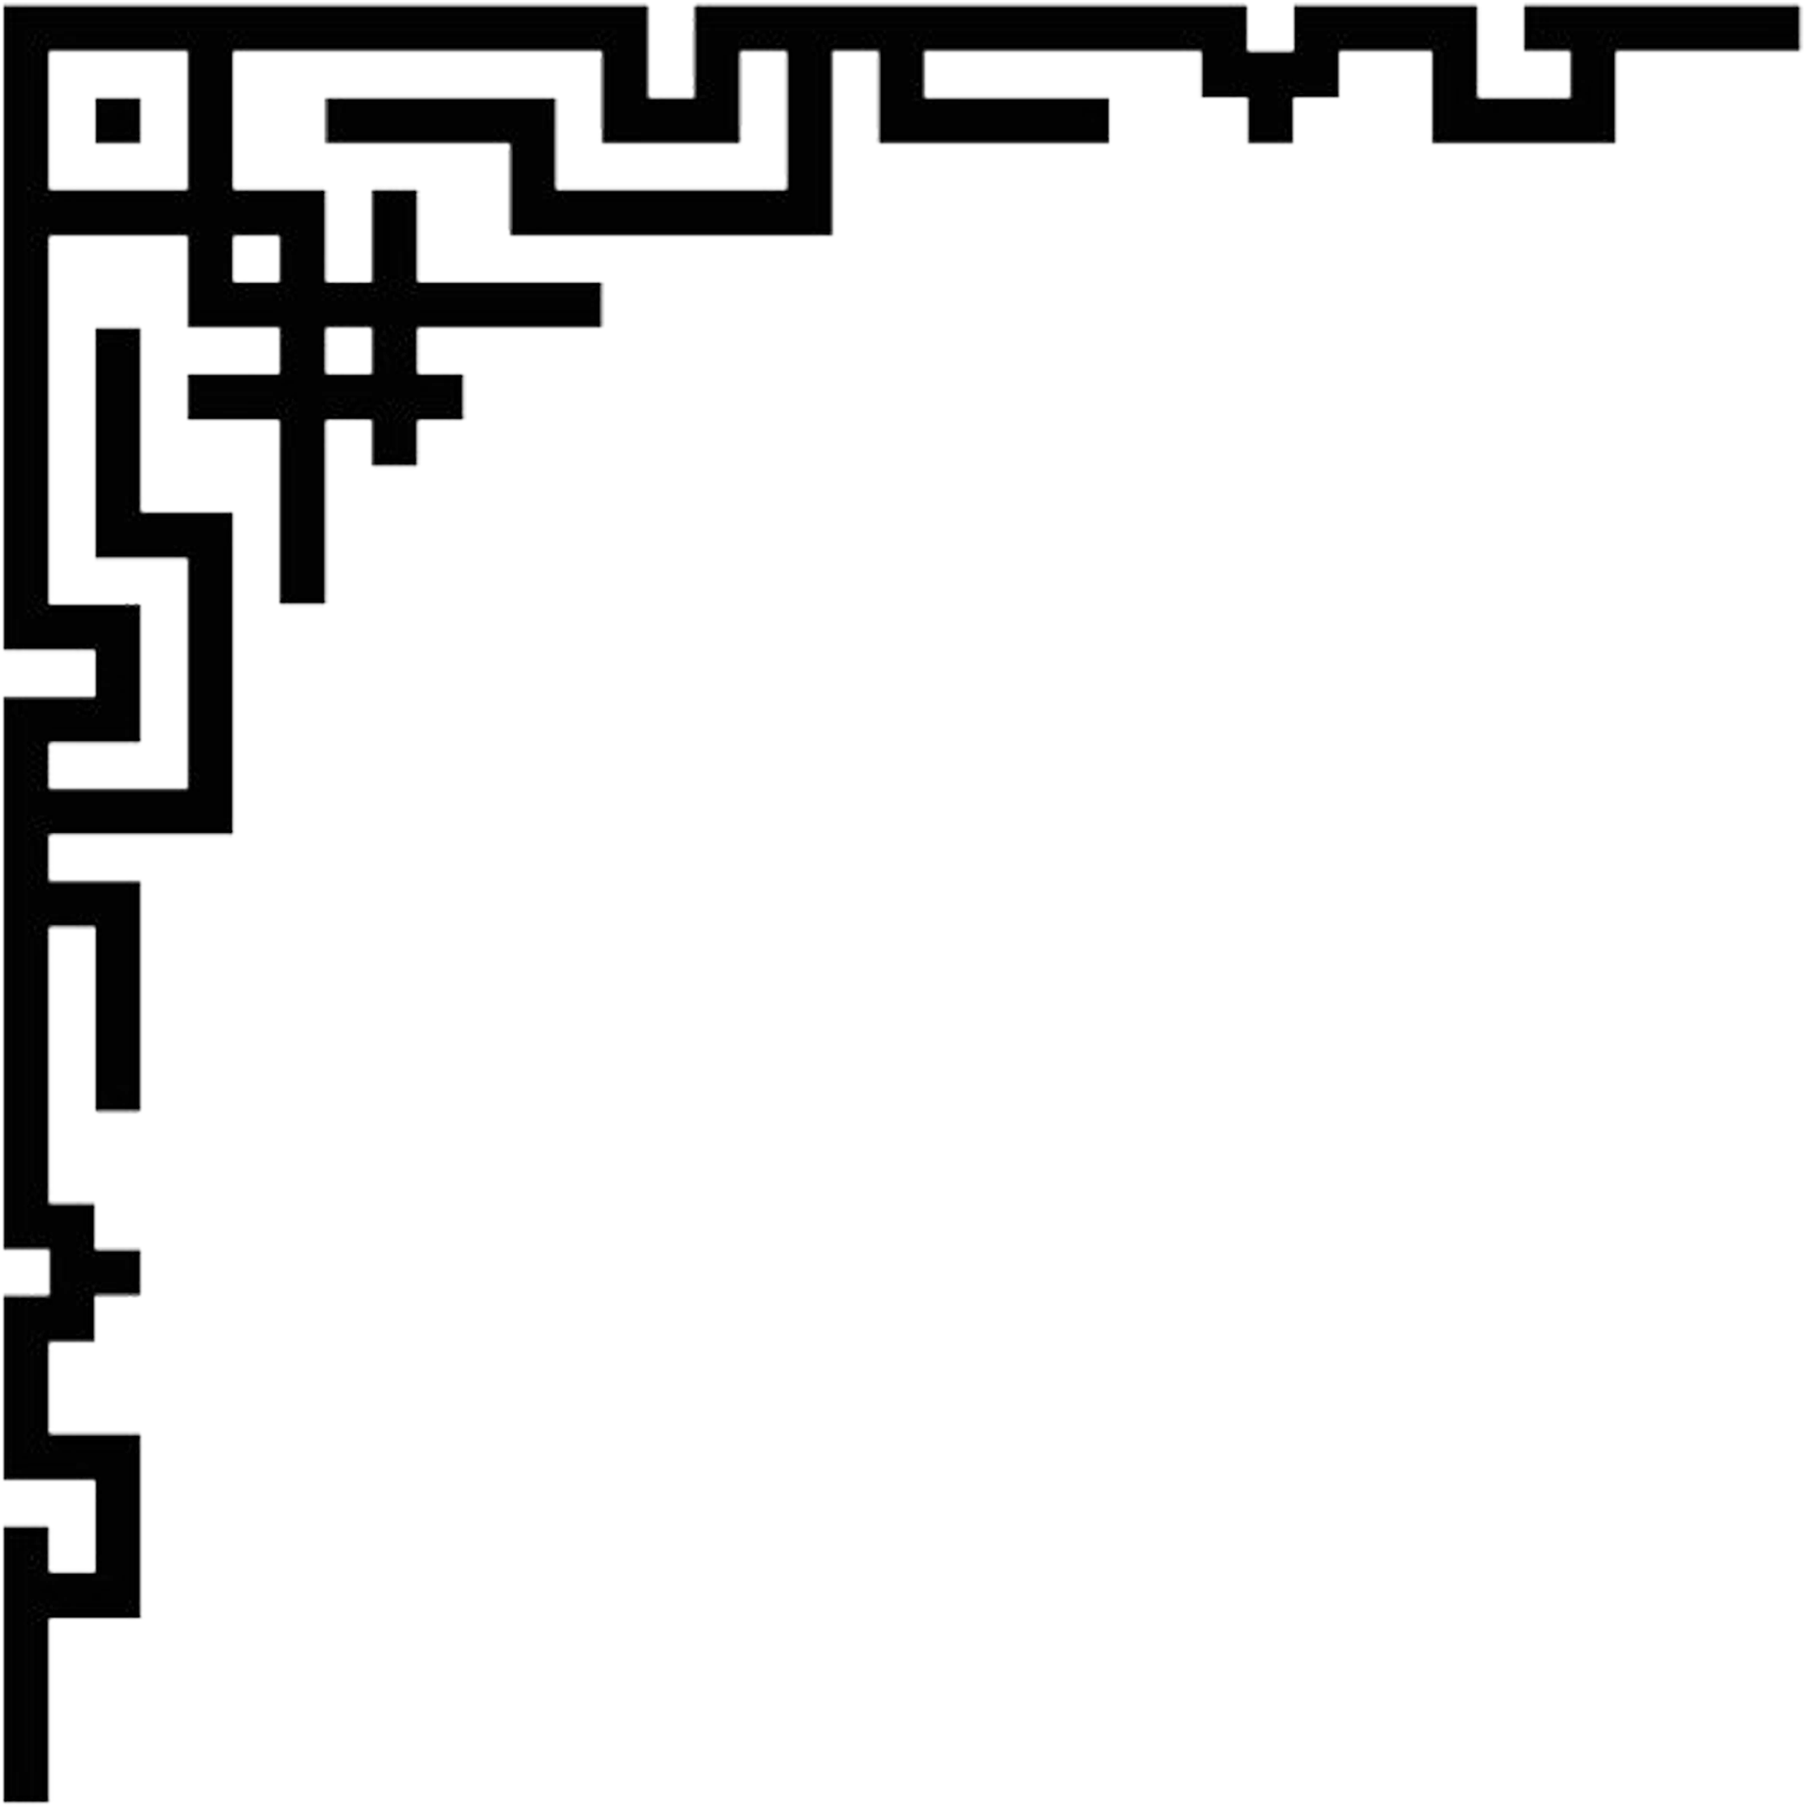
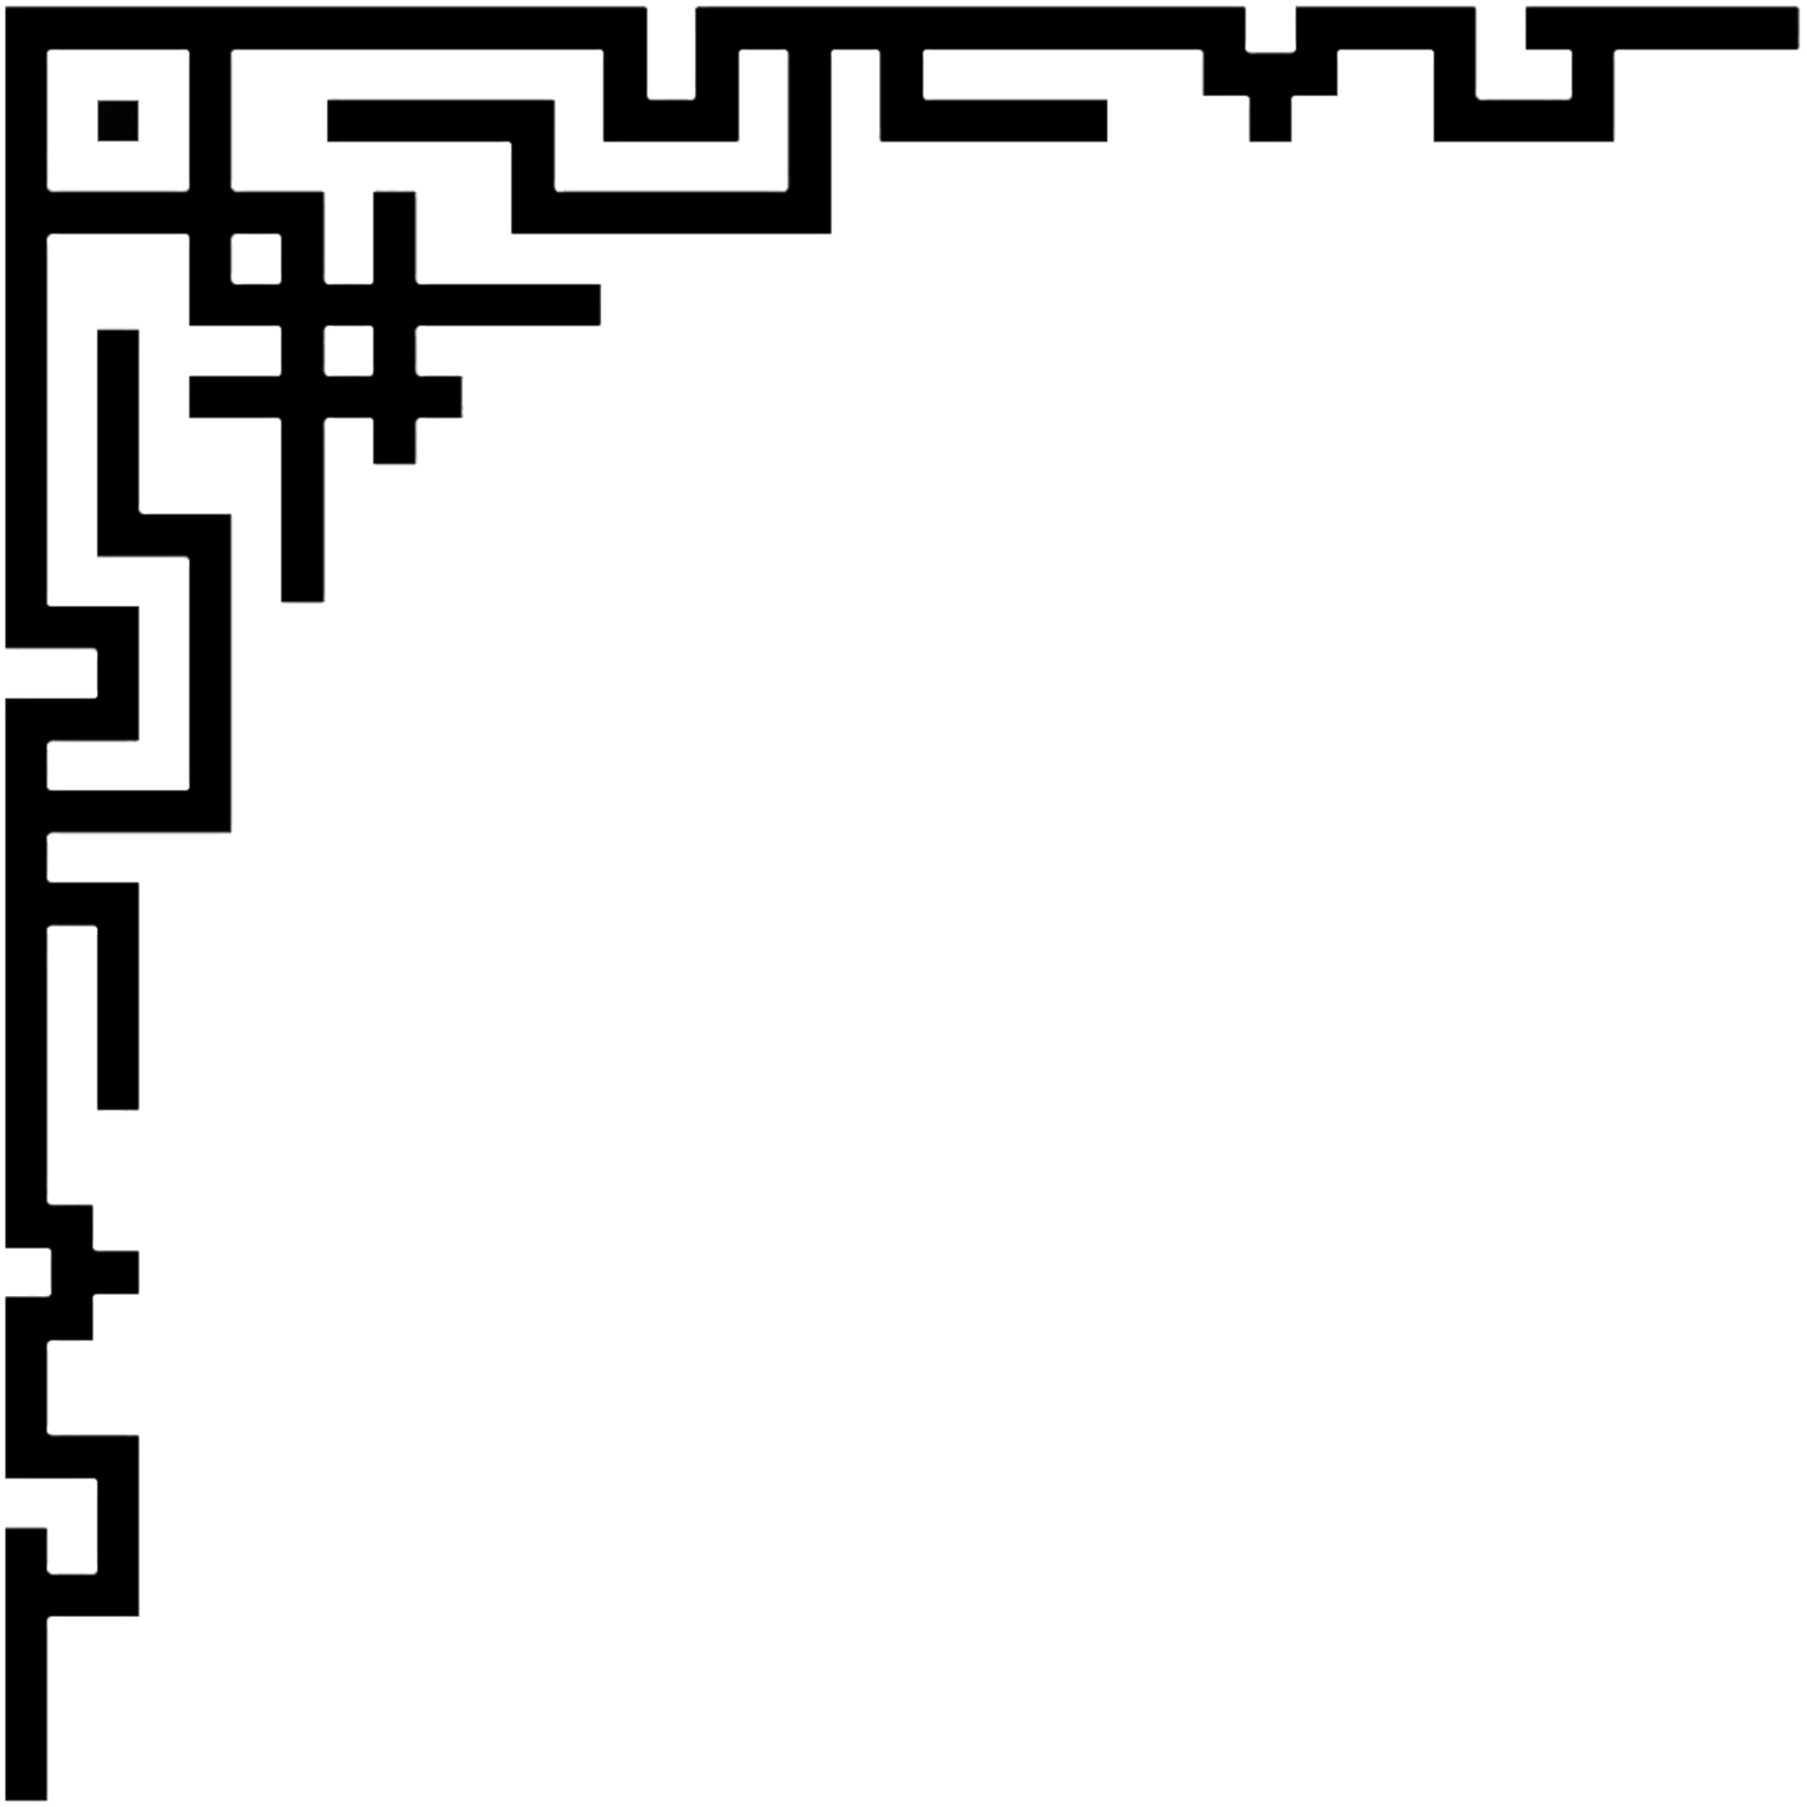
manifiesto + cambios sutiles

diff --git a/manifiesto.html b/manifiesto.html
@@ -1,0 +1,67 @@
+<!DOCTYPE html>
+<html lang="es">
+<head>
+    <meta charset="UTF-8">
+    <meta name="viewport" content="width=device-width, initial-scale=1.0">
+    <title>Cybercirujas Club</title>
+    <link rel="stylesheet" href="css/style.css">    
+    <link rel="stylesheet" href="css/manifiesto.css">    
+</head>
+<body>
+    <div class="container">
+        <header class="header">
+            <div class="logo">
+                                                                                                                         
+                      █                             ▀                     ▀                              
+      ▄  ▄▄▄   ▄   ▄  █▄▄▄    ▄▄▄    ▄ ▄▄   ▄▄▄   ▄▄▄     ▄ ▄▄  ▄   ▄   ▄▄▄    ▄▄▄    ▄▄▄          ▄     
+ ▄▄▀▀▀  █▀  ▀  ▀▄ ▄▀  █▀ ▀█  █▀  █   █▀  ▀ █▀  ▀    █     █▀  ▀ █   █     █   ▀   █  █   ▀          ▀▀▀▄▄
+ ▀▀▄▄▄  █       █▄█   █   █  █▀▀▀▀   █     █        █     █     █   █     █   ▄▀▀▀█   ▀▀▀▄          ▄▄▄▀▀
+      ▀ ▀█▄▄▀   ▀█    ██▄█▀  ▀█▄▄▀   █     ▀█▄▄▀  ▄▄█▄▄   █     ▀▄▄▀█     █   ▀▄▄▀█  ▀▄▄▄▀         ▀     
+                ▄▀                                                        █                              
+               ▀▀                                                       ▀▀                 ▀▀▀▀▀▀        
+            </div>
+            <nav class="nav">
+                <ul>
+                    <li><a href="index.html">Inicio</a></li>
+                    <li><a href="#">Nosotros</a></li>
+                    <li><a href="manifiesto.html">Manifiesto</a></li>
+                    <li><a href="#">Contacto</a></li>
+                </ul>
+            </nav>
+            <div class="horario">
+                <p>MIE 22 JUL 26 - 22:39:22</p>
+            </div>
+        </header>
+        <main>
+            <section class="manifiesto">
+                <div class="container-manifiesto">
+                    <div class="manifiesto-text">
+                        <h1>Manifiesto cyberciruja</h1>
+
+                        <p class="manifiesto-p"><strong>U</strong>n fantasma recorre las esquinas atestadas de basura tecnológica: el fantasma de los crotos digitales y linyeras electrónicos que luchan contra la obsolescencia programada, las GAFAM y los chetos de la web obesa.</p>
+
+                        <p class="manifiesto-p">Una nueva raza de hacktivistas ha nacido desde las entrañas mismas del software libre, el hobbismo informatico y la pasión desmedida por conseguir hardware viejo y duradero antes que caiga en las garras infames de los retrochetos del coleccionismo que abultan los precios de nuestras preciadas computadoras. En una conjunción de nerdismo, activismo político y cirujeo electrónico ha nacido la generación de los cybercirujas, individu@s (la mayoría de las veces son personas humanas, otras veces,vaya uno a saber qué) dispuestos a cargar con cuanto cacharro informático encuentren en la vía pública (y no tan pública también, ¿quién no ha robado alguna compu en desuso de alguna dependencia estatal y/o hogar pudiente) por una simple razón: las computadoras son organismos vivos basados en silicio, elemento noble si los hay. Ante la inmoralidad de un equipo tirado en la basura, el cyberciruja se rebela ante la autoridad del mercado, siendo ella quien dicta al restos de los mortales que aquel equipo debe ir a la basura. ¿Usted tiraría a su abuelo a un contenedor de basura solamente porque el vejestorio ya no sirve para nada? Bueno, si tu abuelo fue un viejo choto, quizás merezca ser descartado, no digo que no. Pero las computadoras, al ser seres vivos basados en silicio carecen de moral y buenas costumbres: simplemente ejecutan ordenes en pos de mejorar nuestras vidas.</p>
+
+                        <p class="manifiesto-p">Los cybercirujas se alzan contra el enemigo de la humanidad, aquel engendro que viene destruyendo no solo el planeta entero, sino que también ahora se meten de lleno contra nuestras amigas de toda la vida: las computadoras. Aquel monstruo que pisa de lleno voluntades, sociedades y culturas no es otro más que el vil demonio del mercado global del neocapitalismo, encarnado hoy en día en la lógica de la oligarquía de datos. Dentro de esta nueva modalidad de mercado, las computadoras y dispositivos electrónicos varios se transforman en obsoletos muy prontamente debido a que la web requiere cada vez de mayor procesamiento de computo del lado del usuario, ya que los oligarcas del dato extraen y extraen nuestra información, mientras el usuari@,impotente, debe cambiar cada vez con mayor frecuencia su equipo informático.</p>
+
+                        <p class="manifiesto-p">¡Cybercirujas y crotos digitales del mundo, uníos! Que nuestros tramontinas devenidos en destornilladores cyberpunks sean un arma de liberación contra los oligarcas del dato,que con su inmoralidad del mercado obligan a la humanidad a tirar toneladas de computadoras año a año. Si nuestros destornilladores serán las armas contra los enemigos del computo, los pendrive con software libre se transformaran en nuestra artillería de avanzada con la cual destruir definitivamente a los inmorales que quieren hacer de la informática e internet un lugar habitable solo por chetos rancios con RAM y procesadores ociosos.</p>
+
+                        <p class="manifiesto-p">T0da computadora es un ser vivo a base de silicio. A diferencia de sus parientes basados en carbono, que cuando envejecen su organismo empieza a decaer y perder capacidad de procesamiento, las computadoras jamás lo pierden. La capacidad de procesamiento va a seguir existiendo mientras el equipo logre prender: solo se necesita que algun ser humano logre brindarle una tarea que pueda resolver. Hay quienes diran que de nada sirve rescatar viejas 486, y no hay nada mas estupido que aquella afirmación. Todo cyberciruja sabe que cualquier equipo funcionando puede ser utilizado para lo que sea: un server ftp, irc, mail o web server; todos esos servicios supieron correr en equipos con minimas prestaciones; ¡y ni hablar de la inmensa biblioteca de juegos que existen para SO como DOS! ¿Por qué tirar entonces un equipo que funciona y que seguirá funcionando siempre y cuando se mantenga en buen estado? ¿Acaso ustedes tirarían una bicicleta porque se le rompió la cadena? Claro que no. Ademas ustedes son unas larvas inmundas cuyo unico ejercicio cotidiano consiste en teclear y teclear incansablemente.</p>
+
+                        <p class="manifiesto-p">L@s cybercirujas nos juntamos en la red. Solo basta con preguntar en los grupos adecuados para encontrarnos y comenzar a traficar y trocar hardw. ¡Únanse, sean hoy mas cybercirujas que nunca!</p>
+
+                        <div class="firma">
+                            <p>*Publicado originalmente en ATDT N#2 y en gopher de texto-plano</p>
+                            <p>** El 20/3 les cybercirujas nos encontramos en el Teatro Mandril, + info en la imagen que encabeza el post.</p>
+                            <p>*** Este manifiesto no representa las ideas de tod@s l@s cybercirujas, por favor, no sea l4mer y no se ofenda</p>
+                        </div>
+                    </div>
+                </div>
+            </section>
+        </main>
+        <footer>
+            
+        </footer>
+    </div>
+</body>
+</html>

diff --git a/css/style.css b/css/style.css
@@ -10,29 +10,46 @@ html {
 
 @font-face {
     font-family: 'fixedsys';
-    src: url('font/Fixedsys500c.otf') format('truetype');
+    src: url('../font/Fixedsys500c.otf') format('truetype');
+    font-weight: normal;
+}
+
+@font-face {
+    font-family: 'manifiesto';
+    src: url('../font/PixelFraktur.ttf') format('truetype');
+    font-weight: 900;
+}
+
+@font-face {
+    font-family: 'adventurer';
+    src: url('../font/Adventurer.ttf') format('truetype');
+    font-weight: normal;
 }
 
 :root {
     /* ------COLORES------ */
     /* fondo */
-    --color-fondo-principal: #afafaf;
-    --color-fondo-superficie: #fff;
+    --color-fondo-principal: #50459B;
+    --color-fondo-superficie: #ffffff;
     --color-fondo-elemento: #8b8b8b;
     --color-fondo-modal: rgba(0, 0, 0, 0.5);
 
     /* texto */
-    --color-texto-principal: #000;
+    --color-texto-oscuro: #000;
+    --color-texto-oscuro-hover: #252525;
+    --color-texto-oscuro-atenuado: rgba(0, 0, 0, 0.25);
+
+    --color-texto-claro: #ffffff;
+    --color-texto-claro-hover: #d2d2d2;
+    --color-texto-claro-atenuado: rgba(255, 255, 255, 0.25);
+
     --color-texto-secundario: #50459B;
-    --color-texto-atenuado: #636363;
+    --color-texto-secundario-hover: #6356BF;
+    --color-texto-secundario-atenuado: rgba(80, 69, 155, 0.25);
 
     /* acentos */
     --color-acento: #50459B;
     --color-acento-hover: #8a7fcd;
-
-    /* bordes */
-    --color-borde-suave: #636363;
-    --color-borde-foco: #50459B;
 
     /* estados */
     --color-exito: #9be39d;
@@ -49,12 +66,15 @@ html {
     /* ------FUENTES------ */
     /* familia */
     --fuente-principal: 'fixedsys';
+    --fuente-secundaria: 'adventurer';
+    --fuente-manifiesto: 'manifiesto';
 
     /* tamaños */
-    --tamano-texto-xs: 0.875rem;
-    --tamano-texto-sm: 1rem;
-    --tamano-texto-md: 1.5rem;
-    --tamano-texto-lg: 3.5rem;
+    --tamano-texto-xs: 0.875rem;      /* 14px */
+    --tamano-texto-s: 1rem;           /* 16px */
+    --tamano-texto-m: 1.5rem;         /* 24px */
+    --tamano-texto-l: 2rem;           /* 32px */
+    --tamano-texto-xl: 3.5rem;        /* 56px */
 }
 
 body {
@@ -74,7 +94,7 @@ body {
     display: flex;
     justify-content: space-between;
     align-items: center;
-    color: white;
+    color: var(--color-fondo-superficie);
 }
 
 ul {
@@ -87,7 +107,11 @@ ul {
     }
     a {
         text-decoration: none;
-        color: white;
+        color: var(--color-texto-claro);
+
+        &:hover {
+            text-decoration: underline;
+        }
     }
 }
 
@@ -95,6 +119,7 @@ ul {
     font-family: monospace;
     white-space: pre;
     font-size: 0.25rem;
+    cursor: pointer;
 }
 
 .linea {
@@ -107,20 +132,21 @@ ul {
 
 #hero-text {
     grid-area: titulo;
+
     h1 {
-        font-size: var(--tamano-texto-lg);
+        font-size: var(--tamano-texto-xl);
         padding-bottom: var(--espacio-md);
     }
 
     p {
-        font-size: var(--tamano-texto-md);
+        font-size: var(--tamano-texto-m);
         padding-bottom: var(--espacio-sm);
     }
 }
 
 .compu p{
     font-size: 0.75rem;
-    color: white;
+    color: var(--color-fondo-superficie);
 }
     
 .hero {
@@ -129,36 +155,53 @@ ul {
     grid-template-areas:
         "titulo compu";
     padding: 5% 15% 5% 15%;
-    color: white;
+    color: var(--color-fondo-superficie);
 
     h1 {
-        font-size: var(--tamano-texto-lg);
+        font-size: var(--tamano-texto-xl);
     }
 }
 
 button {
     margin-top: var(--espacio-md);
     font-family: var(--fuente-principal);
-    background-color: white;
+    background-color: var(--color-fondo-superficie);
     color: rgb(0, 0, 0);
     border: none;
     padding: var(--espacio-sm);
     cursor: pointer;
     box-shadow: 10px 10px 0px rgba(0, 0, 0, 1);
+    font-size: var(--tamano-texto-s);
+    margin-right: var(--espacio-sm);
+
+    a {
+        text-decoration: none;
+        color: var(--color-texto-oscuro);
+    }
+
+    &:hover {
+        background-color: var(--color-texto-oscuro);
+        color: var(--color-fondo-superficie);
+        box-shadow: 10px 10px 0px rgba(255, 255,255, 1);
+
+        a {
+            color: var(--color-fondo-superficie);
+        }
+    }
 }
 
 .about {
-    background-image: url('img/fondo.png');
+    background-image: url('../img/fondo.png');
     background-size: cover;
     background-position: center;
     padding: 5% 15% 5% 15%;
     h1 {
-        font-size: var(--tamano-texto-lg);
+        font-size: var(--tamano-texto-xl);
         text-align: center;
     }
 
     p {
-        font-size: var(--tamano-texto-md);
+        font-size: var(--tamano-texto-m);
         padding: var(--espacio-sm) 0;
         line-height: 1.6;
     }

diff --git a/index.html b/index.html
@@ -4,7 +4,7 @@
     <meta charset="UTF-8">
     <meta name="viewport" content="width=device-width, initial-scale=1.0">
     <title>Cybercirujas Club</title>
-    <link rel="stylesheet" href="style.css">    
+    <link rel="stylesheet" href="css/style.css">    
 </head>
 <body>
     <div class="container">
@@ -21,9 +21,9 @@
             </div>
             <nav class="nav">
                 <ul>
-                    <li><a href="#">Inicio</a></li>
+                    <li><a href="index.html">Inicio</a></li>
                     <li><a href="#">Nosotros</a></li>
-                    <li><a href="#">Servicios</a></li>
+                    <li><a href="manifiesto.html">Manifiesto</a></li>
                     <li><a href="#">Contacto</a></li>
                 </ul>
             </nav>
@@ -42,8 +42,8 @@
                     </div>
     
                     <div class="buttons">
-                        <button>Hacer una donación</button>
-                        <button>MANIFIESTO</button>
+                        <button type="button"><a href="">Hacer una donación</a></button>
+                        <button type="button"><a href="manifiesto.html">MANIFIESTO</a></button>
                     </div>
                 </div>
                 <div class="logo compu" id="compu">

diff --git a/css/manifiesto.css b/css/manifiesto.css
@@ -1,0 +1,43 @@
+.manifiesto {
+    background-image: url('../img/fondo.png');
+    background-size: cover;
+    background-position: center;
+    padding: 5% 0 5% 0;
+    display: flex;
+    align-items: center;
+    justify-content: center;
+}
+
+.container-manifiesto {
+    width: 1596px;
+    height: 1750px;
+    background-image: url('../img/manifiesto.png');
+    background-size: cover;
+    background-position: center;
+}
+
+.manifiesto-text {
+    color: var(--color-texto-oscuro);
+    text-align: center;
+    padding: 8% 14%;
+    h1 {
+        font-family: var(--fuente-manifiesto);
+        font-size: 64px;
+        padding-bottom: var(--espacio-lg);
+    }
+}
+
+.manifiesto-p {
+    font-family: var(--fuente-secundaria);
+    font-size: var(--tamano-texto-m);
+    padding-bottom: var(--espacio-sm);
+}
+
+.firma {
+    font-family: var(--fuente-secundaria);
+    font-size: var(--tamano-texto-xs);
+    padding-top: var(--espacio-sm);
+    p {
+        padding-bottom: var(--espacio-sm);
+    }
+}
